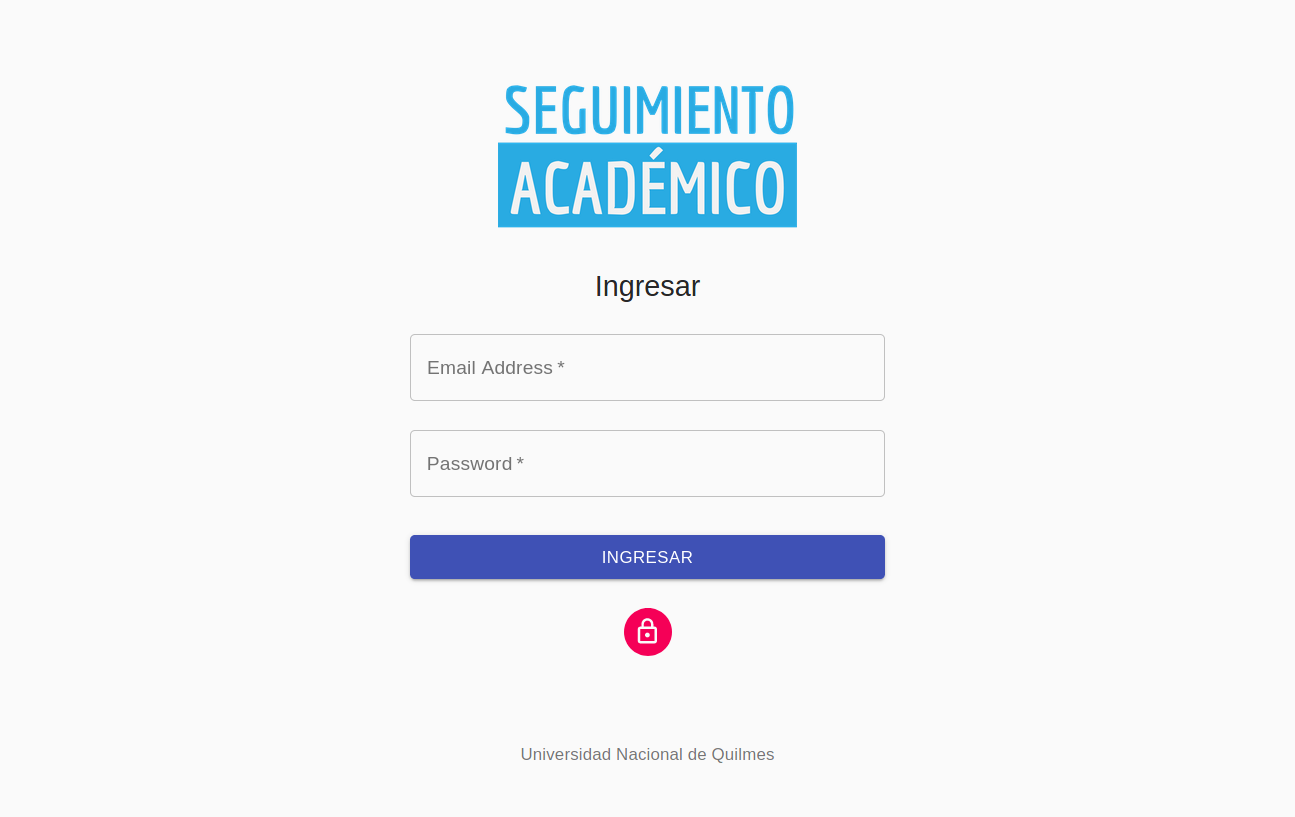
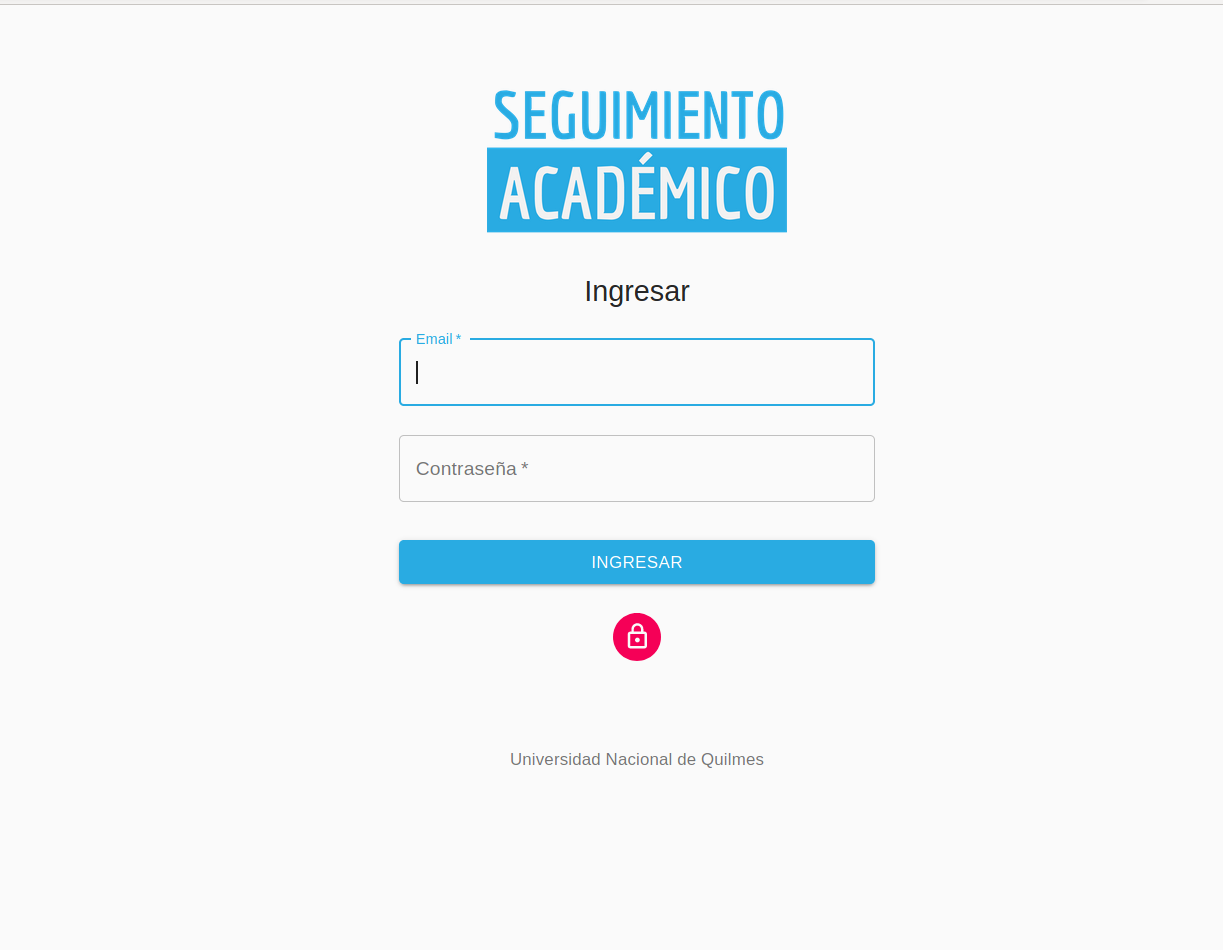
Cambios en resumen

diff --git a/abstract.tex b/abstract.tex
@@ -1,4 +1,9 @@
 \chapter*{Resumen}
-La Universidad Nacional de Quilmes dispone de una gran cantidad de datos que fue recabando a lo largo de su historia. Los alumnos, las materias, la carreras, los planes de estudios, notas, inscripciones, postulantes, entre otros. 
-Algunas carreras, como las relacionadas a Informática fueron pidiendo esos datos y generando planillas para luego analizar esos datos. Las direcciones de las carreras trabajan alrededor de una semana a tiempo completo post inscripciones y terminadas las cursadas para hacer un procesamiento adecuado con  la información de los estudiantes (sobretodo aquellos que comenzaron el Ciclo Básico de las carreras). Durante el cuatrimestre, estos registros se consultan constantemente para generar diferentes estadísticas para planificar la evolución de la carrera. Aún cuando toda la información está disponible y analizada, todo este proceso es ineficiente y demora decisiones relevantes a la carrera, en lo que respecta tanto a estudiantes como a docentes.
-El objetivo que tiene  esta tésis es el de analizar las diferentes necesidades de las direcciones de carreras de la UNQ con respecto a los datos, para luego desarrollar un sistema donde estos datos puedan ser consultados, analizados y visualizados de forma gráfica.
+Dentro del contexto universitario, las universidades nacionales generan a lo largo de su historia diferentes repositorios de datos. Éstos están relacionados a las carreras (desde su creación) y sus respectivos planes de estudios, las diferentes materias y profesores que las dictan en esas carreras y como datos fundamentales, todos los datos de los estudiantes (desde su ingreso), de sus inscripciones y sus notas.
+
+La Universidad Nacional de Quilmes está enmarcada dentro de este contexto. Particularmente desde la creación de las carreras Tecnicatura en Programación Informática y la Licenciatura en Informática, las direcciones de ambas carreras han obtenido todos los datos relacionados a sus estudiantes y han generado diferentes bases de datos \"ad-hoc\" para realizar diferentes análisis iniciales de la población de ambas carreras.
+
+Éstos análisis se realizan tanto durante el proceso de inscripciones como durante el transcurso de cada cuatrimestre.
+
+Debido a la falta de una sistematización del uso de datos, aún cuando toda la información está disponible y analizada, todo este proceso de análisis es ineficiente y demora decisiones relevantes a la carrera, en lo que respecta tanto a estudiantes como a docentes.
+El objetivo que de este trabajo es el de analizar las diferentes necesidades de las direcciones de carreras de la UNQ con respecto a los datos, para luego desarrollar un sistema donde estos datos puedan ser consultados y analizados con mayor facilidad.

diff --git a/anexos.tex b/anexos.tex
@@ -115,3 +115,34 @@
   \captionof{figure}{Pantalla Reporte de Alumno de Seguimiento Académico}
   \label{fig:sa-alumno}
 \end{figure}
+
+
+\section{Pantallas básicas de Seguimiento Académico versión Móvil}
+
+\begin{figure}[!htbp]
+  \centering
+    \includegraphics[scale=0.3]{images/seguimiento-academico/sa-mobile-login.png}
+  \captionof{figure}{Login de Seguimiento Académico Versión móvil}
+  \label{fig:sa-login-mobile}
+\end{figure}
+
+\begin{figure}[!htbp]
+  \centering
+    \includegraphics[scale=0.3]{images/seguimiento-academico/sa-mobile-home.png}
+  \captionof{figure}{Pantalla principal de Seguimiento Académico versión móvil}
+  \label{fig:sa-home-mobile}
+\end{figure}
+
+\begin{figure}[!htbp]
+  \centering
+    \includegraphics[scale=0.3]{images/seguimiento-academico/sa-mobile-materias-form.png}
+  \captionof{figure}{Pantalla Reporte de Materia de Seguimiento Académico versión móvil}
+  \label{fig:sa-materia-form-mobile}
+\end{figure}
+
+\begin{figure}[!htbp]
+  \centering
+    \includegraphics[scale=0.3]{images/seguimiento-academico/sa-mobile-materias.png}
+  \captionof{figure}{Pantalla Reporte de Materia de Seguimiento Académico versión móvil}
+  \label{fig:sa-materia-mobile}
+\end{figure}
